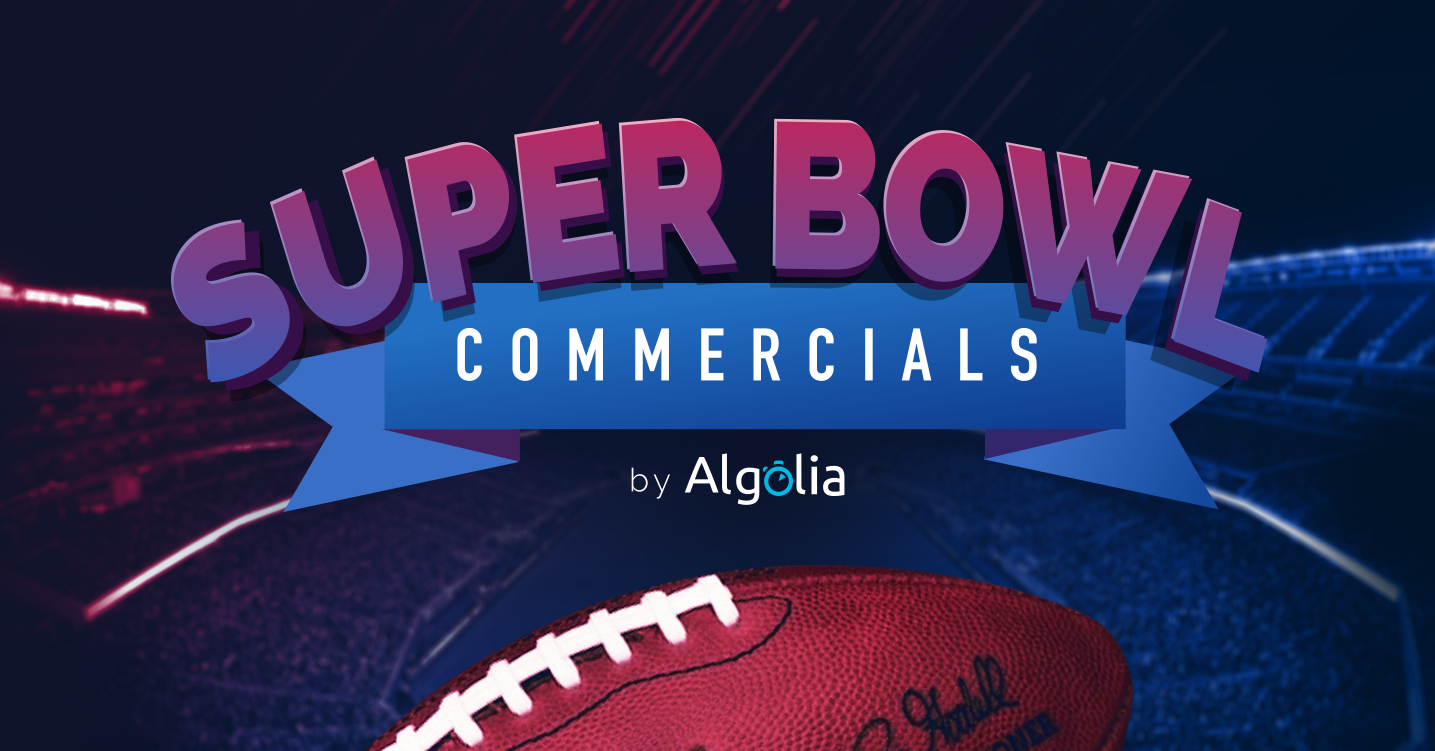
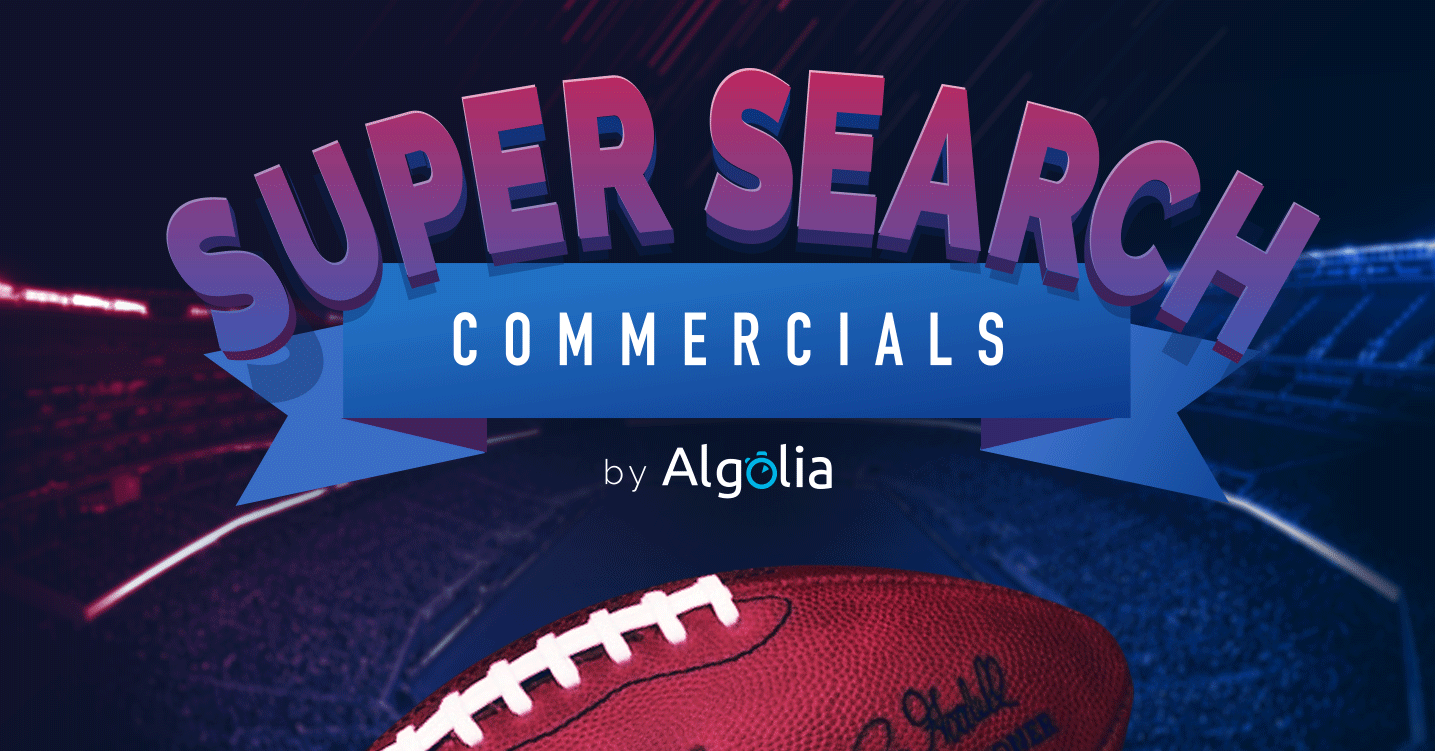
Update 2016-02-04T09:42:20.119Z

Changed region(s): [[0.092, 0.0919, 0.9199, 0.6738]]

diff --git a/index.html b/index.html
@@ -12,10 +12,10 @@
   <meta name="twitter:card" content="summary_large_image" />
   <meta name="twitter:site" content="@Algolia" />
   <meta name="twitter:creator" content="@Algolia" />
-  <meta property="og:url" content="http://shipow.github.io/superbowl/" />
+  <meta property="og:url" content="https://community.algolia.com/supersearch/" />
   <meta property="og:title" content="Super Bowl Instant Ad Search" />
   <meta property="og:description" content="Find and watch every Super Bowl ad ever with Algolia" />
-  <meta property="og:image" content="http://shipow.github.io/superbowl/img/og_screen.png" />
+  <meta property="og:image" content="https://community.algolia.com/supersearch/img/og_screen.png" />
   <meta name="apple-mobile-web-app-capable" content="yes" />
   <meta name="apple-mobile-web-app-title" content="Algolia - SuperBowl Ads" />
   <meta name="apple-mobile-web-app-status-bar-style" content="black" />
@@ -68,7 +68,7 @@
           </svg>
         </a>
       </div>
-      <h1><a href="http://shipow.github.io/superbowl/"><img src="img/logo-superbowl.svg" alt="Super Bowl Commercials search by Algolia" /></a></h1>
+      <h1><a href="https://community.algolia.com/supersearch/"><img src="img/logo-superbowl.svg" alt="Super Bowl Commercials search by Algolia" /></a></h1>
       <form role="search" novalidate="novalidate" class="searchbox sbx-custom">
         <input type="search" placeholder="Search for a commercial" autocomplete="off" required="required" class="sbx-custom__input" id="search" />
         <button type="submit" class="sbx-custom__submit">

diff --git a/js/app.js b/js/app.js
@@ -2768,7 +2768,7 @@
 
 	$(".share-link").on("click", function (e) {
 	  e.preventDefault();
-	  var e = "http://shipow.github.io/superbowl/",
+	  var e = "https://community.algolia.com/supersearch/",
 	      n = "Never struggle to find a Super Bowl ad again. Find the good, the bad and the @Nationwide.";
 	  switch (this.href.split("#")[1]) {
 	    case "twitter":

diff --git a/app.css b/app.css
@@ -200,8 +200,9 @@ header {
     -webkit-animation: flipInX .6s ease-in;
     animation: flipInX .6s ease-in;
     padding: 30px 0 0;
-    text-align: center;
-    color: #fff; }
+    text-align: center; }
+    header h1 img {
+      width: 450px; }
     @media (max-width: 740px) {
       header h1 {
         display: none; } }
